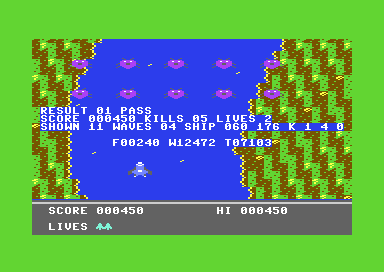
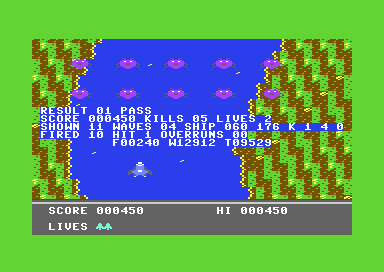
#39: shmup-vertical, enemy fire and the comparison's ports land

Changed region(s): [[0.375, 0.4706, 0.6875, 0.5588], [0.0938, 0.4706, 0.3438, 0.5294]]

diff --git a/CHANGELOG.md b/CHANGELOG.md
@@ -7,6 +7,20 @@ Entries below start at the first public audit; earlier history is in git.
 
 Data 767, schema 31, tools 2.3.0, package 0.16.0.
 
+**Issue #39: `shmup-vertical` gets enemy fire and a per-frame bullet
+check.**
+- Darts, weaves and swoops fire dots that drift towards the ship, from
+  a 6-dot pool in a fire window at Y 72-140. The dots' step, the
+  bullet draw list, the enemy boxes and the path step moved to
+  KickAssembler: the staged worst had reached 17,882 NTSC cycles, over
+  the frame.
+- Staged worst now 15,991 PAL / 16,136 NTSC, with no frame lost; graded
+  run 12,912 / 13,015.
+- Each bullet cell is read back against the map after every erase.
+- `make joytest` plays to game over, reboots on the same disk and
+  requires the saved high score.
+- It passes on the released Oscar64 v1.32.273.
+
 **`verify:templates --selftest` runs each starter's own proof targets
 (#42).** Several #39 fixes are proved only by a starter's own target: the
 adventure's save validation by `disktest`, the platformer's scroll timing
